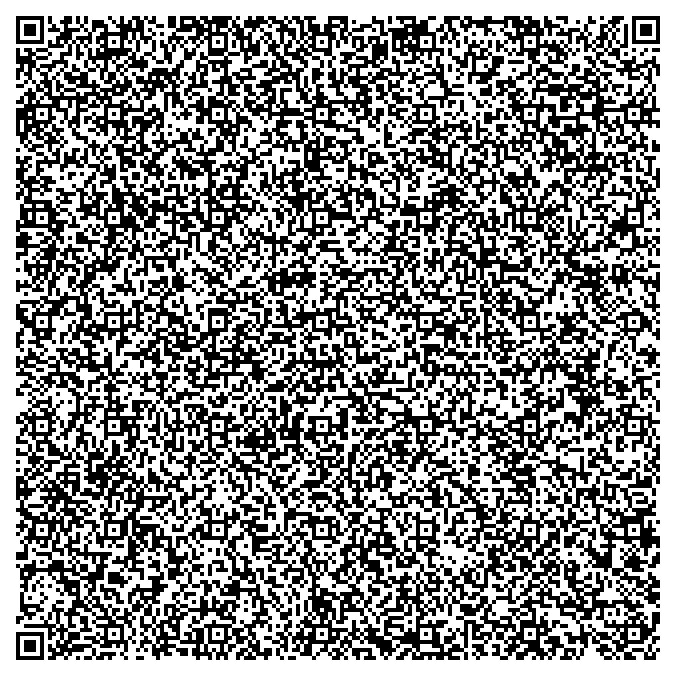
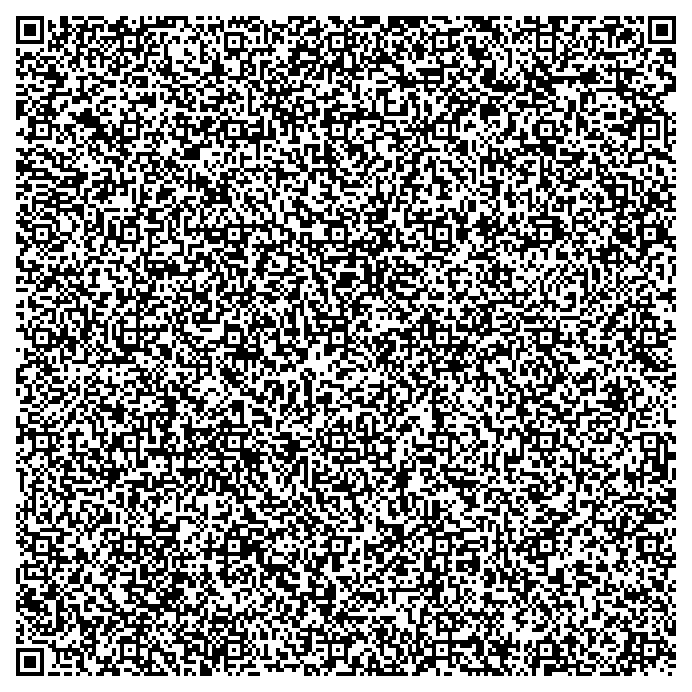
chore: automatic build of qrs.asteroids

diff --git a/qrs.asteroids/game.html b/qrs.asteroids/game.html
@@ -1,1 +1,1 @@
-<!DOCTYPE html><html lang=en><title>Asteroids</title><meta content=qrs.asteroids name=gi><meta content=1.0 name=gv><style>html{padding:0;margin:0;font-family:monospace;width:100vw;height:100vh;background:#fff;display:flex;justify-content:center;align-items:flex-start}#game-layer,body{margin:0;padding:0;width:100%;height:100%;overflow:hidden}#game-canvas{width:100%;height:100%;margin:0;padding:0}@media only screen and (min-device-width:768px){.controls-c{display:none!important}}.controls-c{opacity:.5;position:fixed;bottom:1em;width:100%;display:flex;justify-content:center}.controls{width:100%;max-width:15cm;display:grid;grid-gap:10px;grid-template-columns:min-content 1fr min-content;justify-items:center}.btn{background:#d3d3d3!important;color:#fff;width:2cm;height:2cm}#fR{grid-area:1/3}#fL{grid-area:1/1}#bR{grid-area:2/3}#iS{grid-area:2/2;width:100%;height:2cm}#bL{grid-area:2/1}#game-score{color:#fff;font-size:25px}</style><script>const{random:e,sin:t,cos:n,PI:o}=Math,$=document.querySelector.bind(document);let h,s,l;function a(t){const n=t.createObject();return n.x=t.w/4,n.y=t.h/4,n.h=25,n.w=75,n.t="p",n.step=(()=>{t.kp("a")?n.d-=5:t.kp("d")&&(n.d+=5),t.kp("w")?n.s=5:t.kp("s")?n.s=-3:n.s=function(){const e=$("#iS").value;if(e>60)return(e-50)/50*5;if(e<40)return(50-e)/50*-3;return 0}()}),n.draw=(t=>{t.strokeStyle="white",t.lineWidth=5,t.beginPath(),t.moveTo(n.x+n.wh,n.y),t.lineTo(n.x,n.y+n.hh),t.lineTo(n.x,n.y-n.hh),t.closePath(),t.stroke(),n.s>0&&n.fwd&&(t.strokeStyle="yellow",t.lineWidth=5,t.beginPath(),t.moveTo(n.x,n.y+2*n.hh/3),t.lineTo(n.x-n.wh*e(),n.y),t.lineTo(n.x,n.y-2*n.hh/3),t.moveTo(n.x,n.y+2*n.hh/3),t.closePath(),t.stroke())}),n.oncollision=(()=>{t.paused=!0,h.play("failLong"),setTimeout(()=>{(new GModal).yesNo("Again?").then(e=>{e&&l()})},2e3)}),n.onscreenleft=(()=>r(n)),n}function c(e,t,n){const o=e.createObject(t.wh,2*t.hh/3*(n?-1:1),0,t);o.h=3,o.w=2*t.wh/3,o.s=7,o.t="l",o.draw=(e=>{e.strokeStyle="aqua",e.lineWidth=o.h,e.beginPath(),e.moveTo(o.x-o.wh,o.y),e.lineTo(o.x+o.wh,o.y),e.closePath(),e.stroke()}),o.onscreenleft=(()=>o.die())}function i(l,a=75,c=null,w=null){const u=2*o/8;let d=7*e()-3.5;const y=l.createObject();return y.w=y.h=a,y.x=null===c?l.w-y.wh+e()*l.w*.05:c,y.y=null===w?l.h-y.hh+e()*l.h*.05:w,y.s=1+2*e(),y.d=360*e(),y.t="a",y.cwl.add("l"),y.step=(()=>{y.ia+=d}),y.oncollision=(e=>{h.play("hit"),s.inc(1),y.w>=30&&(i(l,y.wh,y.x-y.wh,y.y),i(l,y.wh,y.x+y.wh,y.y)),y.die(),e.die()}),y.onscreenleft=(()=>r(y)),y.draw=(e=>{e.beginPath();for(let o=0;o<8;o++){const h=y.x-y.wh*n(u*o),s=y.y-y.hh*t(u*o);0===o?e.moveTo(h,s):e.lineTo(h,s)}e.closePath(),e.strokeStyle="orange",e.lineWidth=4,e.stroke()}),y}function r(e){e.x<0?e.x=e.game.w+e.wh:e.x>e.game.w&&(e.x=-e.wh),e.y<0?e.y=e.game.h+e.h:e.y>e.game.h&&(e.y=-e.hh)}window.onload=function(){const t=$("#game-canvas"),n=new GEG(t);h=new GSongLib,s=new GScore,(l=(()=>{n.res=GUt.isLandscape()?{w:1920,h:1080}:{w:1080,h:1920},n.paused=!0,n.objects.length=0,n.paused=!1;const t=a(n);$("#fR").ontouchstart=(()=>c(n,t,!1)),$("#fL").ontouchstart=(()=>c(n,t,!0));const o=$("#bR"),h=$("#bL");o.ontouchstart=(()=>n.press("d")),o.ontouchend=(()=>n.release("d")),h.ontouchstart=(()=>n.press("a")),h.ontouchend=(()=>n.release("a"));for(let e=0;e<10;e++)i(n);!function t(){i(n),setTimeout(()=>t(),2500+15e3*e())}(),n.onKeyDown=(e=>{" "===e&&(c(n,t,!0),c(n,t,!1))})}))(),n.run()};</script><meta charset=UTF-8><meta content="width=device-width,initial-scale=1"name=viewport><div id=game-layer><canvas autofocus height=500 id=game-canvas width=500></canvas><div class=controls-c><div class=controls><button class=btn id=fL>!</button><button class=btn id=fR>!</button><button class=btn id=bL>&lt;</button><input id=iS max=100 min=1 type=range value=50><button class=btn id=bR>></button></div></div></div>
+<!DOCTYPE html><html lang=en><title>Asteroids</title><meta content=qrs.asteroids name=gi><meta content=1.1 name=gv><style>html{padding:0;margin:0;font-family:monospace;width:100vw;height:100vh;background:#fff;display:flex;justify-content:center;align-items:flex-start}#game-layer,body{margin:0;padding:0;width:100%;height:100%;overflow:hidden}#game-canvas{width:100%;height:100%;margin:0;padding:0}@media only screen and (min-device-width:768px){.controls-c{display:none!important}}.controls-c{opacity:.5;position:fixed;bottom:1em;width:100%;display:flex;justify-content:center}.controls{width:100%;max-width:15cm;display:grid;grid-gap:10px;grid-template-columns:min-content 1fr min-content;justify-items:center}.btn{background:#d3d3d3!important;color:#fff;width:2cm;height:2cm}#fR{grid-area:1/3}#fL{grid-area:1/1}#bR{grid-area:2/3}#iS{grid-area:2/2;width:100%;height:2cm}#bL{grid-area:2/1}#game-score{color:#fff;font-size:25px}</style><script>window.qrgames.onload=function(){console.debug("[LOADER] Starting game");let{random:s,sin:r,cos:i,PI:w}=Math,$=document.querySelector.bind(document),c,d,o;function h(e){let t=e.createObject();return t.x=e.w/4,t.y=e.h/4,t.h=25,t.w=75,t.t="p",t.step=()=>{e.kp("a")?t.d-=5:e.kp("d")&&(t.d+=5),e.kp("w")?t.s=5:e.kp("s")?t.s=-3:t.s=(()=>{var e=$("#iS").value;return 60<e?(e-50)/50*5:e<40?(50-e)/50*-3:0})()},t.draw=e=>{e.strokeStyle="white",e.lineWidth=5,e.beginPath(),e.moveTo(t.x+t.wh,t.y),e.lineTo(t.x,t.y+t.hh),e.lineTo(t.x,t.y-t.hh),e.closePath(),e.stroke(),0<t.s&&t.fwd&&(e.strokeStyle="yellow",e.lineWidth=5,e.beginPath(),e.moveTo(t.x,t.y+2*t.hh/3),e.lineTo(t.x-t.wh*s(),t.y),e.lineTo(t.x,t.y-2*t.hh/3),e.moveTo(t.x,t.y+2*t.hh/3),e.closePath(),e.stroke())},t.oncollision=()=>{e.paused=!0,c.play("failLong"),setTimeout(()=>{(new GModal).yesNo("Again?").then(e=>{e&&o()})},2e3)},t.onscreenleft=()=>y(t),t}function a(e,t,o){let n=e.createObject(t.wh,2*t.hh/3*(o?-1:1),0,t);n.h=3,n.w=2*t.wh/3,n.s=7,n.t="l",n.draw=e=>{e.strokeStyle="aqua",e.lineWidth=n.h,e.beginPath(),e.moveTo(n.x-n.wh,n.y),e.lineTo(n.x+n.wh,n.y),e.closePath(),e.stroke()},n.onscreenleft=()=>n.die()}function u(t,e=75,o=null,n=null){let h=2*w/8,a=7*s()-3.5,l=t.createObject();l.w=l.h=e,l.x=null===o?t.w-l.wh+s()*t.w*.05:o,l.y=null===n?t.h-l.hh+s()*t.h*.05:n,l.s=1+2*s(),l.d=360*s(),l.t="a",l.cwl.add("l"),l.step=()=>{l.ia+=a},l.oncollision=e=>{c.play("hit"),d.inc(1),30<=l.w&&(u(t,l.wh,l.x-l.wh,l.y),u(t,l.wh,l.x+l.wh,l.y)),l.die(),e.die()},l.onscreenleft=()=>y(l),l.draw=t=>{t.beginPath();for(let e=0;e<8;e++){var o=l.x-l.wh*i(h*e),n=l.y-l.hh*r(h*e);0===e?t.moveTo(o,n):t.lineTo(o,n)}t.closePath(),t.strokeStyle="orange",t.lineWidth=4,t.stroke()},l}function y(e){e.x<0?e.x=e.game.w+e.wh:e.x>e.game.w&&(e.x=-e.wh),e.y<0?e.y=e.game.h+e.h:e.y>e.game.h&&(e.y=-e.hh)}{let t=$("#game-canvas"),n=new GEG(t);{let e=t.parentElement;for(;"BODY"!==e.tagName;)e=e.parentElement,n.registerKeyboard(e)}c=new GSongLib,d=new GScore,(o=()=>{n.res=GUt.isLandscape()?{w:1920,h:1080}:{w:1080,h:1920},n.paused=!0,n.objects.length=0,n.paused=!1;let t=h(n);$("#fR").ontouchstart=()=>a(n,t,!1),$("#fL").ontouchstart=()=>a(n,t,!0);var e=$("#bR"),o=$("#bL");e.ontouchstart=()=>n.press("d"),e.ontouchend=()=>n.release("d"),o.ontouchstart=()=>n.press("a"),o.ontouchend=()=>n.release("a");for(let e=0;e<10;e++)u(n);!function e(){u(n),setTimeout(()=>e(),2500+15e3*s())}(),n.onKeyDown=e=>{" "===e&&(a(n,t,!0),a(n,t,!1))}})(),n.run()}};</script><meta charset=UTF-8><meta content="width=device-width,initial-scale=1"name=viewport><div id=game-layer><canvas autofocus height=500 id=game-canvas width=500></canvas><div class=controls-c><div class=controls><button class=btn id=fL>!</button><button class=btn id=fR>!</button><button class=btn id=bL>&lt;</button><input id=iS max=100 min=1 type=range value=50><button class=btn id=bR>></button></div></div></div>
